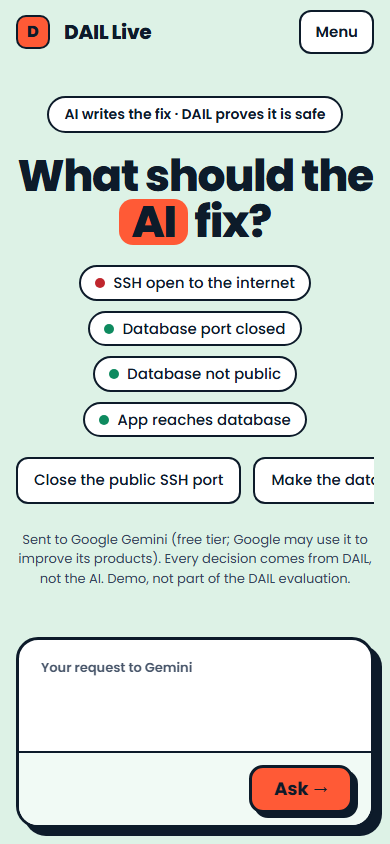
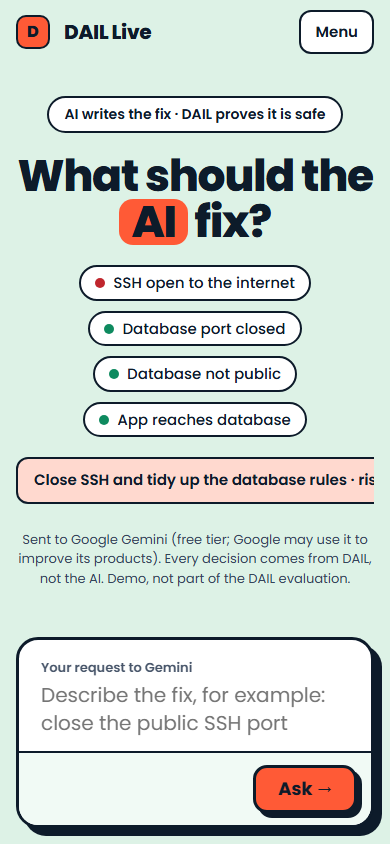
D-fix step 1: Ask screen fits 1440x900, placeholder, UNTRUSTED label never clipped, risky chip first on phones, screenshots, D-45 (PLAN §3.7)

diff --git a/site/assets/css/dail.css b/site/assets/css/dail.css
@@ -147,11 +147,14 @@ button, select, textarea, input { font: inherit; color: inherit; }
 .outline-pill--fail { border-color: var(--fail); }
 
 /* ---- screen 1: Ask ---- */
-.ask-screen { max-width: 820px; margin: 0 auto; padding: 150px 24px 48px; display: grid; gap: 26px; justify-items: center; text-align: center; }
+.ask-screen { max-width: 1148px; margin: 0 auto; padding: 150px 24px 48px; display: grid; gap: 26px; justify-items: center; text-align: center; }
+/* the column is 820 px; the headline, the pills and the chips may use up to 1100 px, so each stays on one line (D-45) */
+.ask-screen > .prompt, .ask-screen > .loading, .ask-screen > .notice, .ask-screen > .footnote { max-width: 820px; }
 .tagline { border: var(--b2); border-radius: var(--r-pill); background: var(--white); padding: 6px 16px; font-size: 14px; font-weight: 600; }
 .headline { font-size: var(--fs-display); font-weight: 800; letter-spacing: -0.03em; line-height: 1.05; }
 .headline__ai { display: inline-block; background: var(--tomato); border-radius: var(--r-button); padding: 0 12px; }
 .health { display: flex; flex-wrap: wrap; justify-content: center; gap: 10px; }
+@media (min-width: 1000px) { .headline, .health, .chips { white-space: nowrap; flex-wrap: nowrap; } }
 .health .pill { font-size: 15px; }
 .chips { display: flex; flex-wrap: wrap; justify-content: center; gap: 12px; }
 .chip { min-height: 44px; font-size: 15px; font-weight: 500; padding: 10px 16px; border-radius: var(--r-chip); border: var(--b2); background: var(--white); color: var(--ink); cursor: pointer; }
@@ -165,11 +168,11 @@ button, select, textarea, input { font: inherit; color: inherit; }
 .prompt__label { display: block; font-size: var(--fs-meta); font-weight: 600; color: var(--ink-muted); }
 .prompt__input { display: block; width: 100%; border: 0; resize: none; background: none; font-size: calc(24px * var(--scale)); line-height: 1.4; padding: 4px 0; }
 .prompt__input:focus-visible { outline-offset: 6px; }
-.prompt__foot { display: flex; align-items: center; gap: 12px 14px; flex-wrap: wrap; background: var(--mint-soft); border-top: var(--b2); padding: 12px 18px 12px 22px; }
+.prompt__foot { display: flex; align-items: center; gap: 10px 12px; flex-wrap: nowrap; background: var(--mint-soft); border-top: var(--b2); padding: 12px 14px 12px 22px; }
 .prompt__foot label { font-size: 14px; font-weight: 600; }
-.prompt__foot select { min-height: 44px; border: var(--b2); border-radius: var(--r-tab); background: var(--white); padding: 6px 10px; font-size: 15px; font-weight: 500; max-width: 100%; }
-.prompt__model { font-family: var(--mono); font-size: var(--fs-meta); color: var(--ink-muted); }
-.prompt__foot .btn { margin-left: auto; }
+.prompt__foot select { flex: none; width: 260px; min-height: 44px; border: var(--b2); border-radius: var(--r-tab); background: var(--white); padding: 6px 10px; font-size: 15px; font-weight: 500; text-overflow: ellipsis; }
+.prompt__model { flex: 1 1 auto; min-width: 0; font-family: var(--mono); font-size: var(--fs-meta); color: var(--ink-muted); }
+.prompt__foot .btn { flex: none; margin-left: auto; }
 .passcode { display: flex; align-items: center; gap: 8px; }
 .passcode input { min-height: 44px; border: var(--b2); border-radius: var(--r-tab); padding: 6px 10px; background: var(--white); width: 12em; }
 .loading { width: 100%; text-align: left; font-size: var(--fs-small); color: var(--ink-muted-on-mint); }
@@ -185,7 +188,8 @@ button, select, textarea, input { font: inherit; color: inherit; }
 .you__bubble { background: var(--ink); color: var(--white); font-size: calc(20px * var(--scale)); line-height: 1.4; border-radius: 22px 22px 6px 22px; padding: 14px 22px; box-shadow: var(--sh-you); overflow-wrap: anywhere; }
 .recorded { font-size: var(--fs-small); font-weight: 700; color: var(--ink-muted-on-mint); }
 
-.gemini { position: relative; background: var(--white); border: var(--b2); border-radius: var(--r-card); box-shadow: var(--sh-gemini); padding: 18px 22px 18px 50px; overflow: hidden; }
+/* min-height: the vertical UNTRUSTED label (about 80 px) always fits, also on a one-line card (D-45) */
+.gemini { position: relative; min-height: 112px; background: var(--white); border: var(--b2); border-radius: var(--r-card); box-shadow: var(--sh-gemini); padding: 18px 22px 18px 50px; overflow: hidden; }
 .gemini__stripe { position: absolute; left: 0; top: 0; bottom: 0; width: 30px; background: var(--tomato-soft); border-right: var(--b2); display: flex; align-items: center; justify-content: center; }
 .gemini__stripe span { writing-mode: vertical-rl; transform: rotate(180deg); font-size: 11px; font-weight: 700; letter-spacing: 0.12em; }
 .gemini__head { display: flex; justify-content: space-between; gap: 8px 16px; flex-wrap: wrap; margin-bottom: 10px; }
@@ -368,6 +372,7 @@ a.brand { color: var(--ink); text-decoration: none; }
   .headline { font-size: calc(44px * var(--scale)); }
   .chips { flex-wrap: nowrap; justify-content: flex-start; overflow-x: auto; width: 100%; padding-bottom: 6px; }
   .chip { flex: none; }
+  .chip--risky { order: -1; } /* the risky chip first on a phone, as in Phone.dc.html (D-45) */
   .ask-screen .prompt { position: fixed; left: 16px; right: 16px; bottom: 16px; width: auto; z-index: 15; box-shadow: var(--sh-gemini); }
   .prompt__input { font-size: 20px; }
   .prompt__model, .prompt__foot label, .prompt__foot select { display: none; }

diff --git a/site/index.html b/site/index.html
@@ -54,7 +54,7 @@
     <form class="prompt" id="ask-form">
       <div class="prompt__main">
         <label class="prompt__label" for="instruction">Your request to Gemini</label>
-        <textarea class="prompt__input" id="instruction" rows="2" maxlength="280" autocomplete="off"></textarea>
+        <textarea class="prompt__input" id="instruction" rows="2" maxlength="280" autocomplete="off" placeholder="Describe the fix, for example: close the public SSH port"></textarea>
       </div>
       <div class="prompt__foot">
         <label for="scenario">Scenario</label>

diff --git a/docs/DECISIONS.md b/docs/DECISIONS.md
@@ -48,3 +48,4 @@ Every choice not fixed in `docs/PLAN.md` is recorded here, with its reason and d
 | D-42 | 2026-11-26 | **Smaller choices.** DAIL starts loading when the page opens (Ask is the first screen; about 17 MB, every file hash-checked); `?tab=replays` and `?tab=write` open those tabs. A collapsed earlier attempt reopens with "Open ↓". Stop ends a running loop between steps and says "Stopped. The trusted state is still vN.". The ledger drawer shows the tab's own states, newest first; a replay shows its recorded ledger in its card. The status GET of `/api/propose` returns `available`, `passcode_required` and the configured `model` name (no secret), for the line "<model> · judged by DAIL v1.0". The favicon is the logo (tomato square, ink border, "D"). **Four design choices, approved by the user on 26 Nov 2026:** (1) in the thread the header keeps one 84 px row on desktop with the short pill labels of D-37 and smaller header type (13 to 14 px, as in the mock-ups); (2) the Ledger button reads "Ledger", as in the mock-up; (3) presenter mode hides the docked prompt, shows the trusted state as dots and sets the stamp at 64 px, so that the whole DAIL card fits at 1366x768 (tested); (4) a rejected attempt stays open 1.6 s before it folds, also under reduced motion (reading time, not motion). | Decided by Claude Code under the user's "fix all by your own mind"; the four design choices approved by the user, 26 Nov 2026. | D package §4.5 |
 | D-43 | 2026-11-26 | **Refused requests always get their answer.** The oversized-request test of `serve` passed 17 of 20 runs: the server answered 400 without reading the body and closed the socket, and Windows then reset the connection, so the client sometimes saw the reset instead of the 400. The handler now reads and discards a refused body (oversized, or a POST to another path or from a foreign Host) up to 1,000,000 bytes, then sends its fixed answer (400, 404 or 403) and closes; a larger body is still refused unread. After the change: 50 of 50 runs. No retry was added. Also, the proxy writes Python bytecode to a temporary folder (`sys.pycache_prefix`), never into `site/vendor/`, which is served and hash-checked (the suite had found `__pycache__` folders there; tested). | A refusal must be deterministic; the served bundle must stay exactly as built. | User, 26 Nov 2026; D package §6 |
 | D-44 | 2026-11-26 | **One real run of the final D** (`serve` on 127.0.0.1 with the local key, `canonical`, "Close SSH and tidy up the database rules", asked once, nothing forced): attempt 1, `gemini-3.5-flash-lite`, 2,975 input and 303 output tokens; Gemini edited rule `app_ssh_public`; DAIL PROMOTE, ALL_REQUIRED_PROVEN, INV-SEC-003 carried forward; target-only PROMOTE (3 checks); trusted state v1. No retry was needed, so the retry loop is shown with the fake Gemini (tests and screenshots); `docs/DEMO_SCRIPT.md` covers both stories. | Honest reporting. | D package §6 |
+| D-45 | 2026-11-26 | **Review polish of PR #4 (D-fix).** (1) The Ask screen fits 1440x900 without scrolling, as in `Main.dc.html`: the column stays 820 px for the prompt box and the footer note, while the headline (72 px, unchanged), the four health pills and the three chips may use up to 1100 px and stay on one line each (desktop, at least 1000 px wide); the prompt box footer is one row (scenario select 260 px wide, the model line beside it, Ask → on the right). `tests/test_site_browser.py` fails if the tagline, headline, pills, prompt box, chips or footer note end below 900 px, or if any of them wraps. (2) The Ask textarea has the placeholder "Describe the fix, for example: close the public SSH port"; a chip still fills the box. (3) Gemini cards have a minimum height of 112 px, so the vertical UNTRUSTED label is never clipped, also on the "writing" card and one-change cards (tested on the writing card and every replay). (4) On a phone (600 px or less) the risky chip comes first (CSS `order`), as in `Phone.dc.html`; the desktop order is unchanged. (5) The page check stops its fake Gemini / `serve` process whenever Node ends (success, failed check, a browser that does not launch, an uncaught error), and pipes that process's error output through Node instead of handing it the caller's pipe. A test runs the check with a browser channel that does not exist: it fails in about 2 s (limit 60 s) and the fake server's port is closed afterwards. With the previous harness this particular case also ended quickly; a 900 s wait was not reproduced, but the cleanup now covers every exit path. (6) Screenshots retaken. | Review verdict on PR #4, 26 Nov 2026. | D-fix work package |
